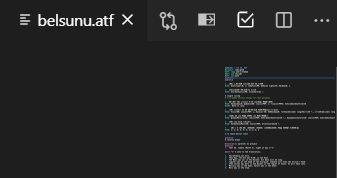
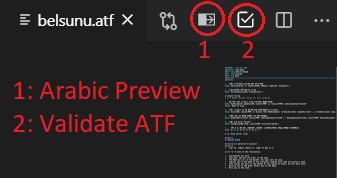
Added additional images

diff --git a/README.md b/README.md
@@ -54,14 +54,23 @@ Tokens and Scopes` command.
 After installing the extension, in order to utilise it you will need to load an ATF file. 
 If you do not have an ATF file, there are many freely available on the 
 [ORACC site archive](http://oracc.museum.upenn.edu/doc/search/index.html).
+
+<img src="media/generalUI.png" align="center">
+
 Once you have an ATF file to load, simple locate the File option on the menu bar at the top left of the window, and choose the Open File option from the drop down menu. This will bring up a window allowing you to locate the ATF file. Once located, select it and choose open.
 
 One key feature is the ability to display text in multiple different languages, and features viewing panels that can display the text from right-to-left (eg: Arabic).
 
 Once an ATF file has been loaded, you should have two extra icons on the top right.
 
+<img src="media/buttons.png" align="center">
+
 The first of these in the Show Arabic Preview button, which brings up a secondary panel displaying the correct orientation of the Arabic text (right to left). 
 
+<img src="media/arabicpreview.png" align="center">
+
 The next icon along is the Validate ATF button, which when pressed will send the contents of the file over to the Oracc server in order to check if the ATF is valid. If there are errors, those will be displayed in the console.
+
+<img src="media/validateATF.png" align="center">
 
 Once you are done viewing or editing the ATF file, simply save and close it and the extension will close with it. To save the file, choose the File option on the menu bar, and choose the Save option. Under the menu bar, there should be a tab with the same name as the ATF file opened earlier. Hovering over this tab will reveal an X, which if clicked will close the file and the extension along with it.
